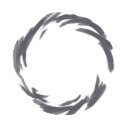
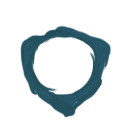
Update - COSMETIC: Customize Energy Display

diff --git a/src/main/java/potionbrewer/characters/Potionbrewer.java b/src/main/java/potionbrewer/characters/Potionbrewer.java
@@ -59,21 +59,31 @@ public class Potionbrewer extends CustomPlayer {
     private static final String[] TEXT = characterStrings.TEXT;
     
     public static final String[] orbTextures = {
-            "potionbrewerResources/images/char/potionbrewer/orb/layer1.png",
-            "potionbrewerResources/images/char/potionbrewer/orb/layer2.png",
-            "potionbrewerResources/images/char/potionbrewer/orb/layer3.png",
-            "potionbrewerResources/images/char/potionbrewer/orb/layer4.png",
             "potionbrewerResources/images/char/potionbrewer/orb/layer5.png",
+            "potionbrewerResources/images/char/potionbrewer/orb/layer4.png",
+            "potionbrewerResources/images/char/potionbrewer/orb/layer3.png",
+            "potionbrewerResources/images/char/potionbrewer/orb/layer2.png",
+            "potionbrewerResources/images/char/potionbrewer/orb/layer1.png",
             "potionbrewerResources/images/char/potionbrewer/orb/layer6.png",
-            "potionbrewerResources/images/char/potionbrewer/orb/layer1d.png",
-            "potionbrewerResources/images/char/potionbrewer/orb/layer2d.png",
-            "potionbrewerResources/images/char/potionbrewer/orb/layer3d.png",
+            "potionbrewerResources/images/char/potionbrewer/orb/layer5d.png",
             "potionbrewerResources/images/char/potionbrewer/orb/layer4d.png",
-            "potionbrewerResources/images/char/potionbrewer/orb/layer5d.png",};
-    
+            "potionbrewerResources/images/char/potionbrewer/orb/layer3d.png",
+            "potionbrewerResources/images/char/potionbrewer/orb/layer2d.png",
+            "potionbrewerResources/images/char/potionbrewer/orb/layer1d.png",
+    };
+
+    public static final float[] layerSpeeds = {
+            -40.0F,
+            40.0F,
+            -20.0F,
+            20.0F,
+            0.0F,
+    };
+    // layerSpeeds = new float[]{-20.0F, 20.0F, -40.0F, 40.0F, 360.0F};// 67
+
     public Potionbrewer(String name, PlayerClass setClass) {
         super(name, setClass, orbTextures,
-                "potionbrewerResources/images/char/potionbrewer/orb/vfx.png", null,
+                "potionbrewerResources/images/char/potionbrewer/orb/vfx.png", layerSpeeds,
                 new SpriterAnimation(
                         "potionbrewerResources/images/char/potionbrewer/Spriter/Potionbrewer.scml"));
         

diff --git a/src/main/java/potionbrewer/PotionbrewerMod.java b/src/main/java/potionbrewer/PotionbrewerMod.java
@@ -84,13 +84,13 @@ public class PotionbrewerMod implements
     private static final String SKILL_CYAN_BG = "potionbrewerResources/images/512/bg_skill.png";
     private static final String POWER_CYAN_BG = "potionbrewerResources/images/512/bg_power.png";
 
-    private static final String ENERGY_ORB_DEFAULT_GRAY = "potionbrewerResources/images/512/card_default_gray_orb.png";
+    private static final String ENERGY_ORB_DEFAULT_GRAY = "potionbrewerResources/images/512/card_cyan_orb.png";
     private static final String CARD_ENERGY_ORB = "potionbrewerResources/images/512/card_small_orb.png";
 
-    private static final String ATTACK_DEFAULT_GRAY_PORTRAIT = "potionbrewerResources/images/1024/bg_attack_default_gray.png";
-    private static final String SKILL_DEFAULT_GRAY_PORTRAIT = "potionbrewerResources/images/1024/bg_skill_default_gray.png";
-    private static final String POWER_DEFAULT_GRAY_PORTRAIT = "potionbrewerResources/images/1024/bg_power_default_gray.png";
-    private static final String ENERGY_ORB_DEFAULT_GRAY_PORTRAIT = "potionbrewerResources/images/1024/card_default_gray_orb.png";
+    private static final String ATTACK_DEFAULT_GRAY_PORTRAIT = "potionbrewerResources/images/1024/bg_attack.png";
+    private static final String SKILL_DEFAULT_GRAY_PORTRAIT = "potionbrewerResources/images/1024/bg_skill.png";
+    private static final String POWER_DEFAULT_GRAY_PORTRAIT = "potionbrewerResources/images/1024/bg_power.png";
+    private static final String ENERGY_ORB_DEFAULT_GRAY_PORTRAIT = "potionbrewerResources/images/1024/card_cyan_orb.png";
 
     private static final String THE_DEFAULT_BUTTON = "potionbrewerResources/images/charSelect/PotionbrewerCharacterButton.png";
     private static final String THE_DEFAULT_PORTRAIT = "potionbrewerResources/images/charSelect/DefaultCharacterPortraitBG.png";

diff --git a/src/main/java/potionbrewer/potions/BlacksmithPotion.java b/src/main/java/potionbrewer/potions/BlacksmithPotion.java
@@ -73,7 +73,7 @@ public class BlacksmithPotion extends AbstractPotion {
 
     @Override
     public boolean canUse() {
-        if (AbstractDungeon.actionManager.turnHasEnded && AbstractDungeon.getCurrRoom().phase == AbstractRoom.RoomPhase.COMBAT) {
+        if (AbstractDungeon.getCurrRoom().phase == AbstractRoom.RoomPhase.COMBAT) {
             return false;
         } else {
             return AbstractDungeon.getCurrRoom().event == null || !(AbstractDungeon.getCurrRoom().event instanceof WeMeetAgain);
